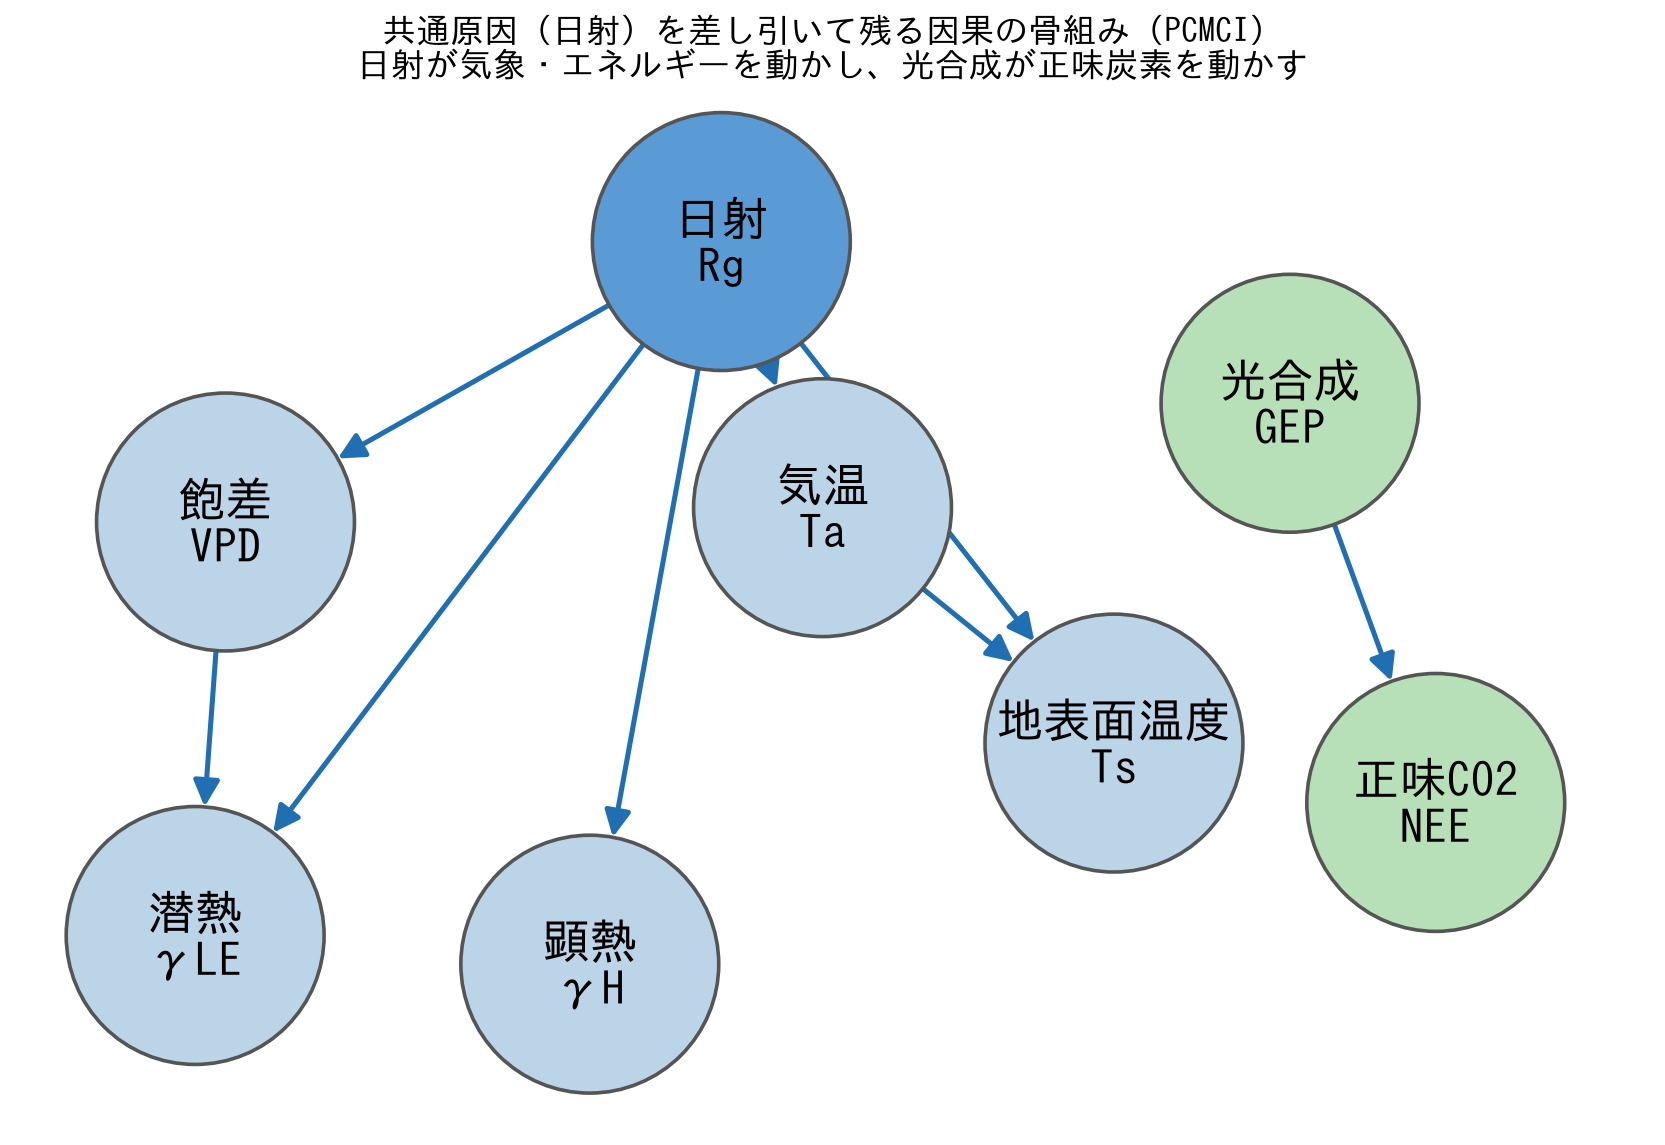
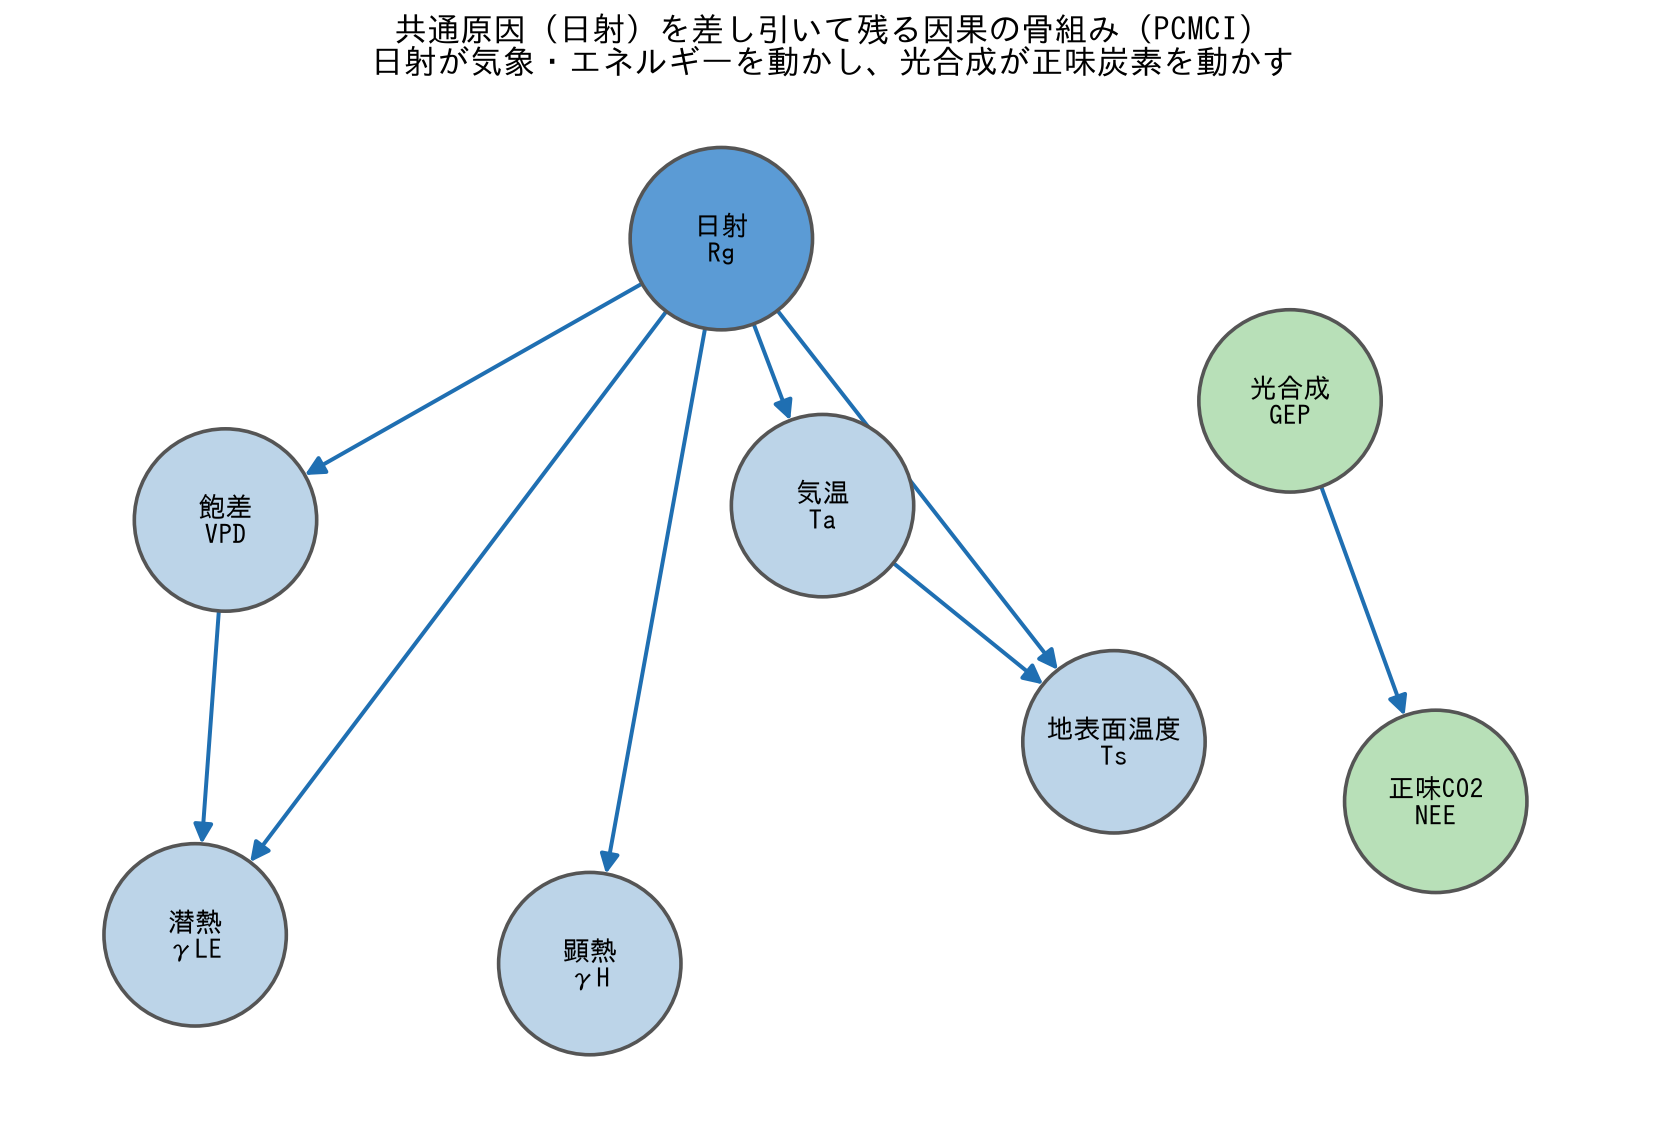
fig3の円を0.3倍に縮小（キャンバスは広いまま小さく表示）

diff --git a/scripts/make_slides_figs.py b/scripts/make_slides_figs.py
@@ -105,7 +105,7 @@ def fig_pid():
 # Fig 3: PCMCI causal skeleton (JP-Tak forest)
 # ---------------------------------------------------------------------------
 def fig_skeleton():
-    # 円は 0.6 倍。文字が収まるようにサイズを合わせ、配置は詰める。矢印は円の縁で止める。
+    # キャンバス・配置は広いまま、円(node_size)だけ 0.3 倍にして小さく見せる。矢印は円の縁で止める。
     pos = {"Rg":(0,2.45), "VPD":(-2.45,1.08), "Ta":(0.5,1.15), "gLE":(-2.6,-0.94),
            "gH":(-0.65,-1.08), "Ts":(1.94,0.0), "GEP":(2.81,1.66), "NEE":(3.53,-0.29)}
     edges = [("Rg","VPD"),("Rg","Ta"),("Rg","gLE"),("Rg","gH"),("Rg","Ts"),
@@ -119,18 +119,18 @@ def fig_skeleton():
     # 統一配色（青＋緑のみ）：日射＝共通原因(濃い青)、光合成・正味CO2＝直接残る炭素(緑)、その他気象＝薄青
     ncol = ["#5b9bd5" if n=="Rg" else (C_REAL_LIGHT if n in ("GEP","NEE")
             else C_APP_LIGHT) for n in G.nodes]
-    NS = 20400  # 円は 0.6 倍（34000→20400）
+    NS = 10200  # 円は 0.3 倍（34000→10200）。キャンバスは広いままなので小さく見える。
     nx.draw_networkx_nodes(G, pos, node_size=NS, node_color=ncol,
                            edgecolors="#555", linewidths=2, ax=ax)
-    nx.draw_networkx_labels(G, pos, labels=labels, font_size=26,
+    nx.draw_networkx_labels(G, pos, labels=labels, font_size=15,
                             font_family=JP.get_name(), ax=ax)
     # node_size を渡すと矢印は円の縁で止まり、円と重ならない。min_target/source_margin で余白も確保
-    nx.draw_networkx_edges(G, pos, arrowstyle="-|>", arrowsize=30,
-                           width=2.8, edge_color=BLUE, node_size=NS,
-                           min_source_margin=15, min_target_margin=18, ax=ax)
+    nx.draw_networkx_edges(G, pos, arrowstyle="-|>", arrowsize=22,
+                           width=2.2, edge_color=BLUE, node_size=NS,
+                           min_source_margin=10, min_target_margin=13, ax=ax)
     ax.set_title("共通原因（日射）を差し引いて残る因果の骨組み（PCMCI）\n"
                  "日射が気象・エネルギーを動かし、光合成が正味炭素を動かす",
-                 fontsize=19)
+                 fontsize=18)
     ax.set_xlim(-3.5, 4.6); ax.set_ylim(-1.9, 3.2)
     ax.axis("off")
     fig.savefig(OUT/"fig3_causal_skeleton.png", bbox_inches="tight"); plt.close(fig)
